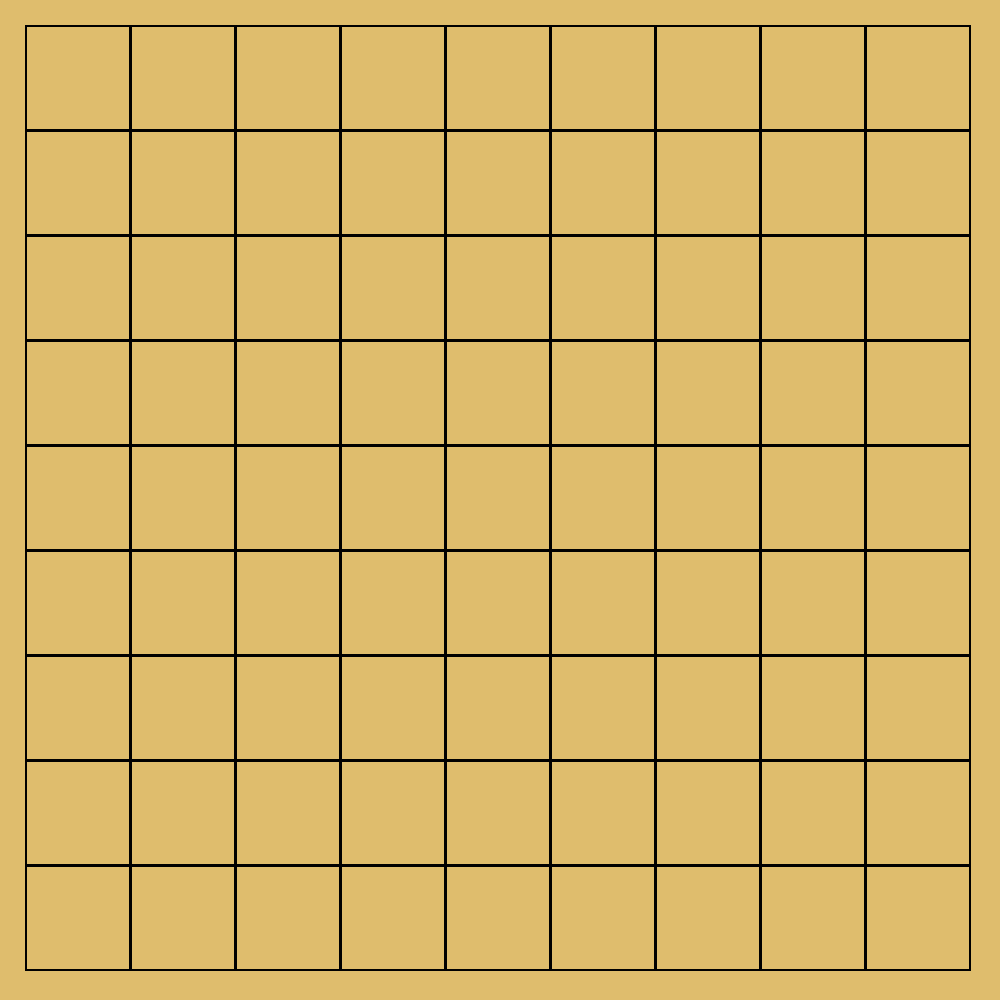
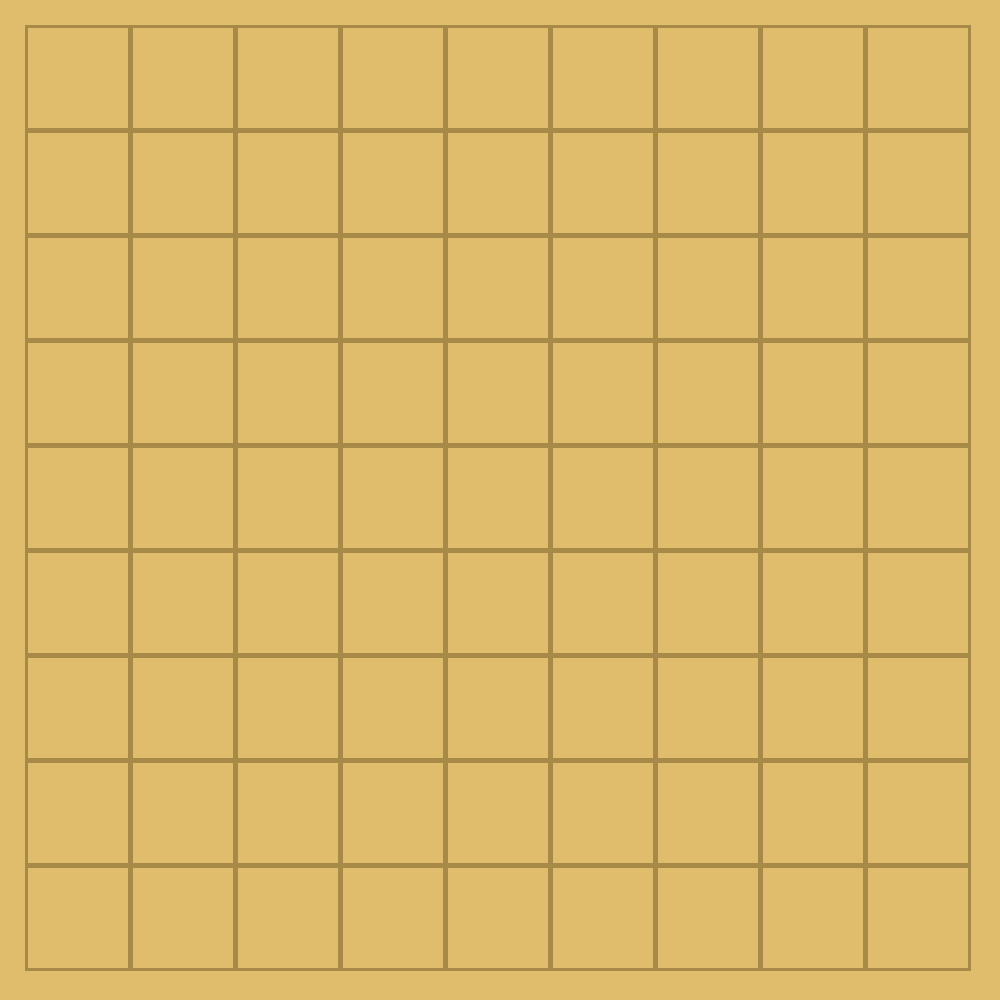
view 1.0.2

diff --git a/data/replay_match.py b/data/replay_match.py
@@ -12,7 +12,8 @@ def draw(size):
             idraw.rectangle((padding + size_slot * col,
                              padding + size_slot * row,
                              padding + size_slot + size_slot * col,
-                             padding + size_slot + size_slot * row), outline='black', width=2)
+                             padding + size_slot + size_slot * row), outline='#a78a48', width=2)
 
     img.save('board.png')
 
+draw(9)
